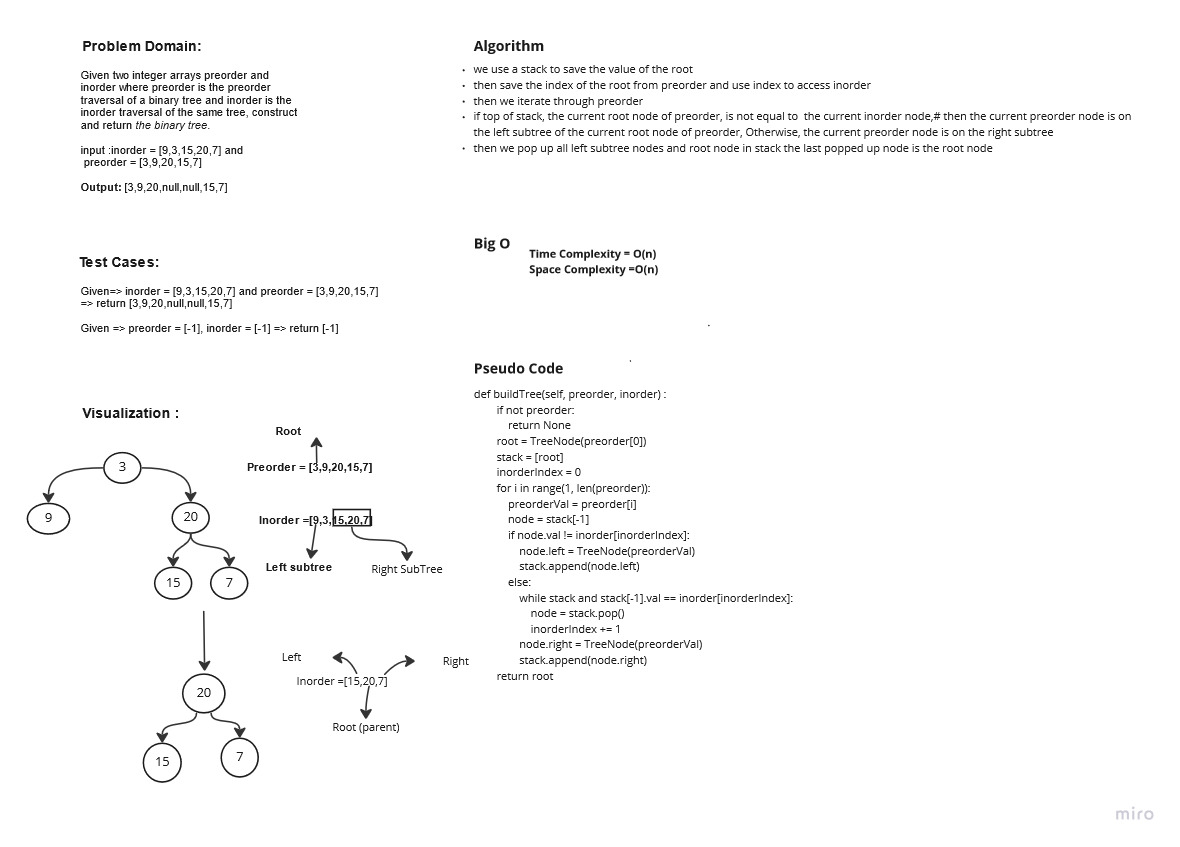
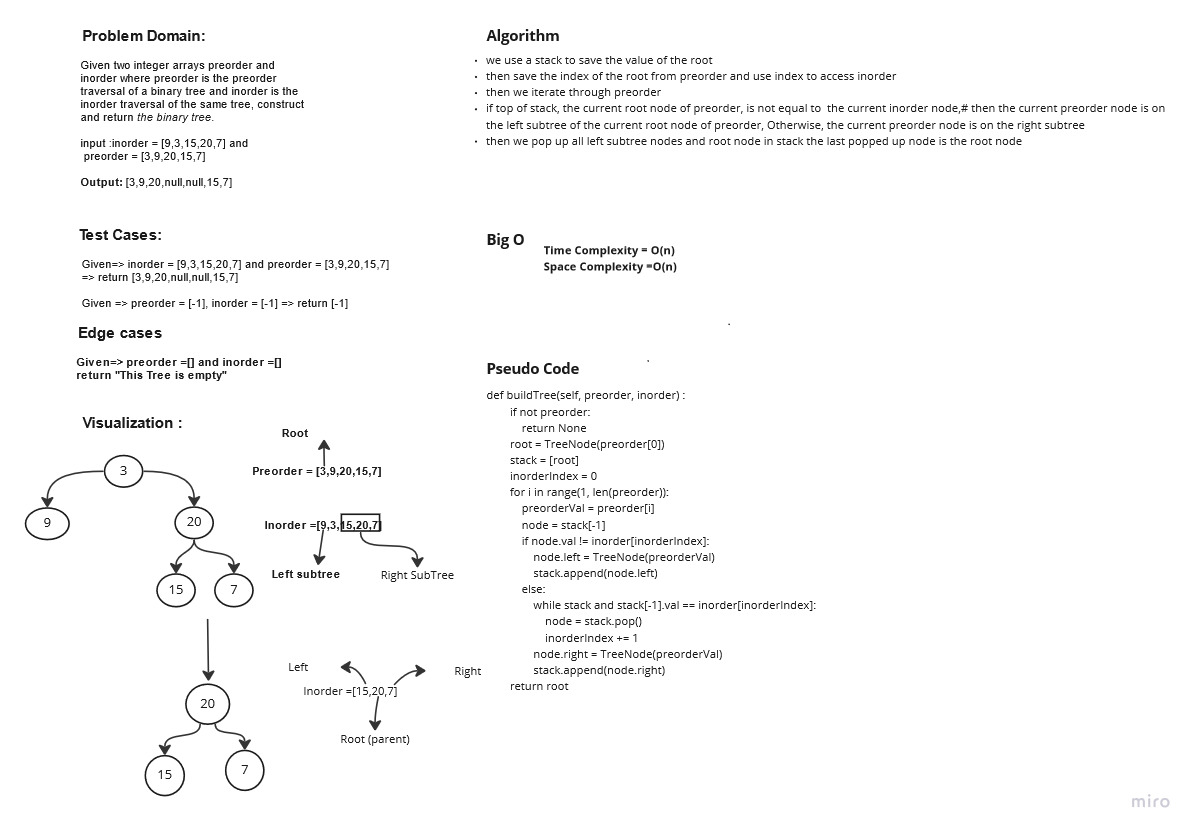
added the edge case

diff --git a/python/code_challenges/tree/challenge01/challenge01.py b/python/code_challenges/tree/challenge01/challenge01.py
@@ -10,8 +10,8 @@ class TreeBuilder :
     iterate through the preorder to compare values of preorder and inorder
     to append them to left subtree and right subtree'''
     def buildTree(self, preorder, inorder) :
-        if not preorder:
-            return None
+        if len(preorder)==0 or  len(inorder)==0:
+            return "This Tree is empty"
 
         root = TreeNode(preorder[0])
         stack = [root]

diff --git a/python/code_challenges/tree/challenge01/test_challenge01.py b/python/code_challenges/tree/challenge01/test_challenge01.py
@@ -21,3 +21,7 @@ def test_build_tree3():
     assert tree.buildTree([1,2,3],[2,1,3]).val == 1
     assert tree.buildTree([1,2,3],[2,1,3]).left.val == 2
     assert tree.buildTree([1,2,3],[2,1,3]).right.val == 3
+
+def test_empty():
+    tree = TreeBuilder()
+    assert tree.buildTree([],[])=="This Tree is empty"
